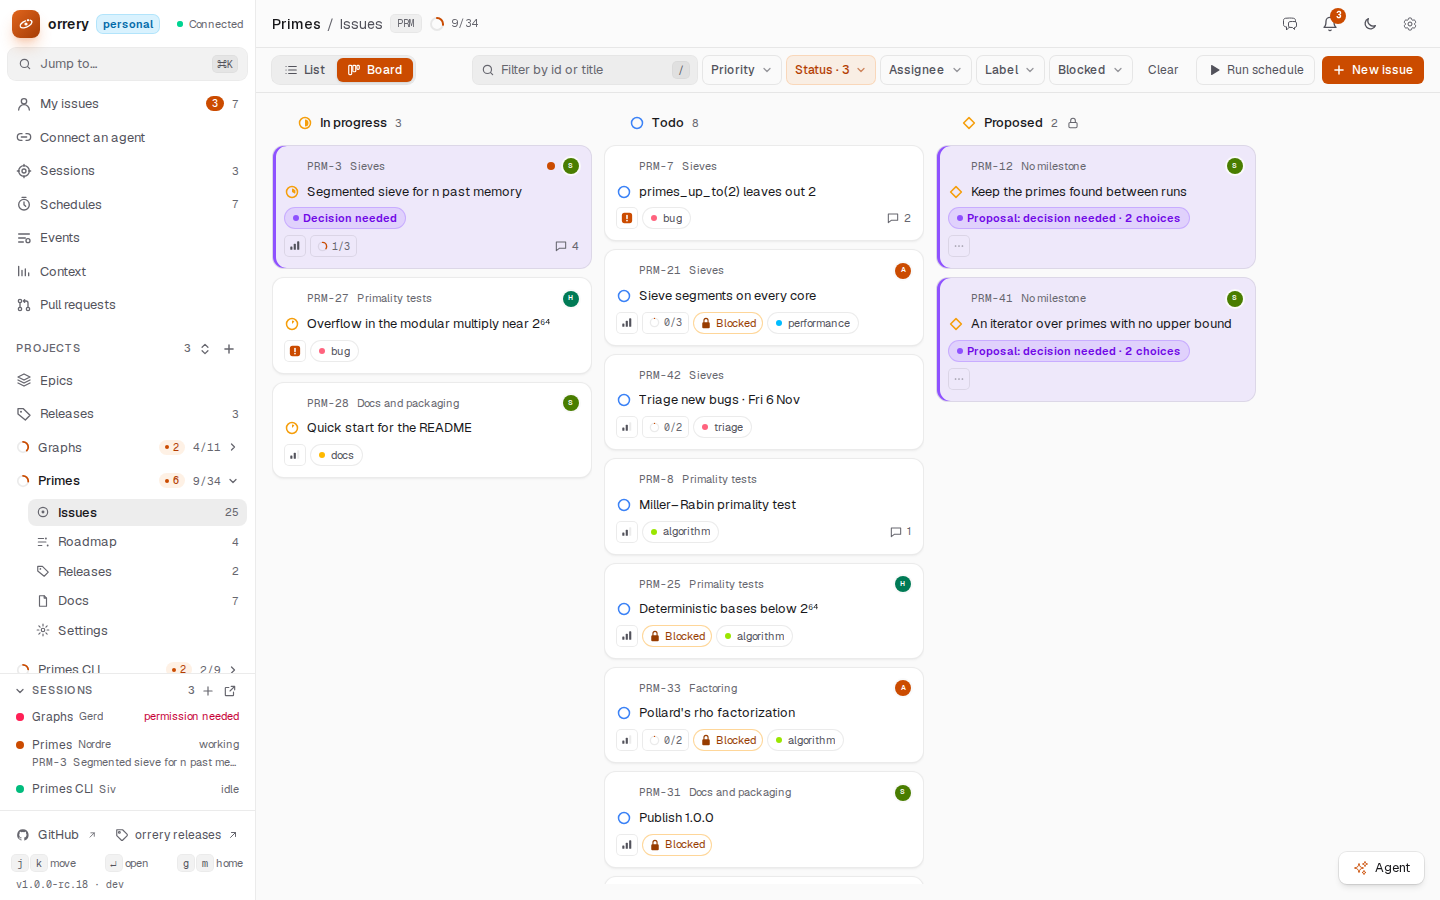
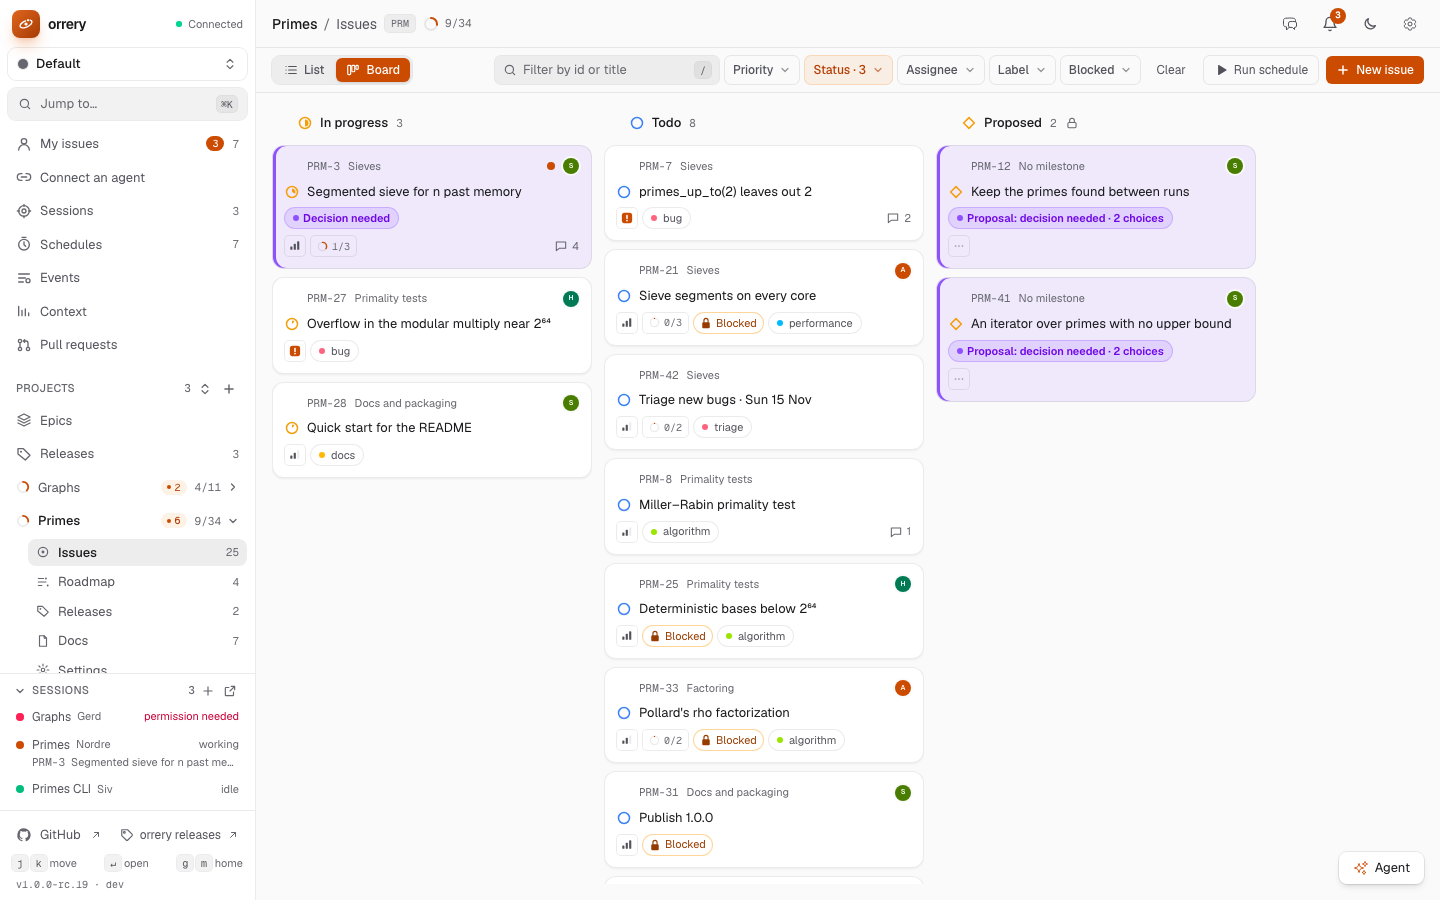
docs(repo): retake the readme's images for rc.19

diff --git a/README.md b/README.md
@@ -16,7 +16,7 @@ In practice:
 
 <table>
 <tr>
-<td width="50%"><img alt="A project's board in orrery: issues in In progress, Todo and Proposed columns, one waiting on the owner's decision and a proposal with choices, and the Claude sessions in the sidebar, one needing the owner" src="docs/images/board-light.png"></td>
+<td width="50%"><img alt="A project's board in orrery: issues in In progress, Todo and Proposed columns, one waiting on the owner's decision and a proposal with choices, and the workspace and Claude sessions in the sidebar, one session needing the owner" src="docs/images/board-light.png"></td>
 <td width="50%"><img alt="An issue's page: a banner naming the session working on it, that session in its Sessions panel, its sub-issues, and a question waiting on the owner's decision" src="docs/images/issue-light.png"></td>
 </tr>
 <tr>
